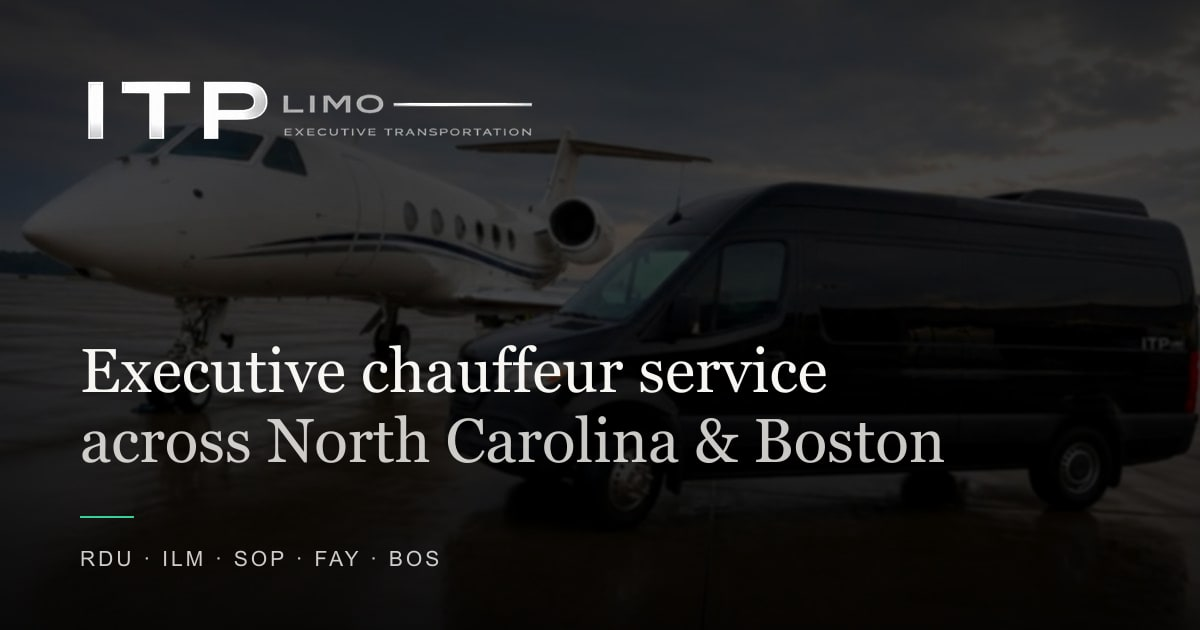
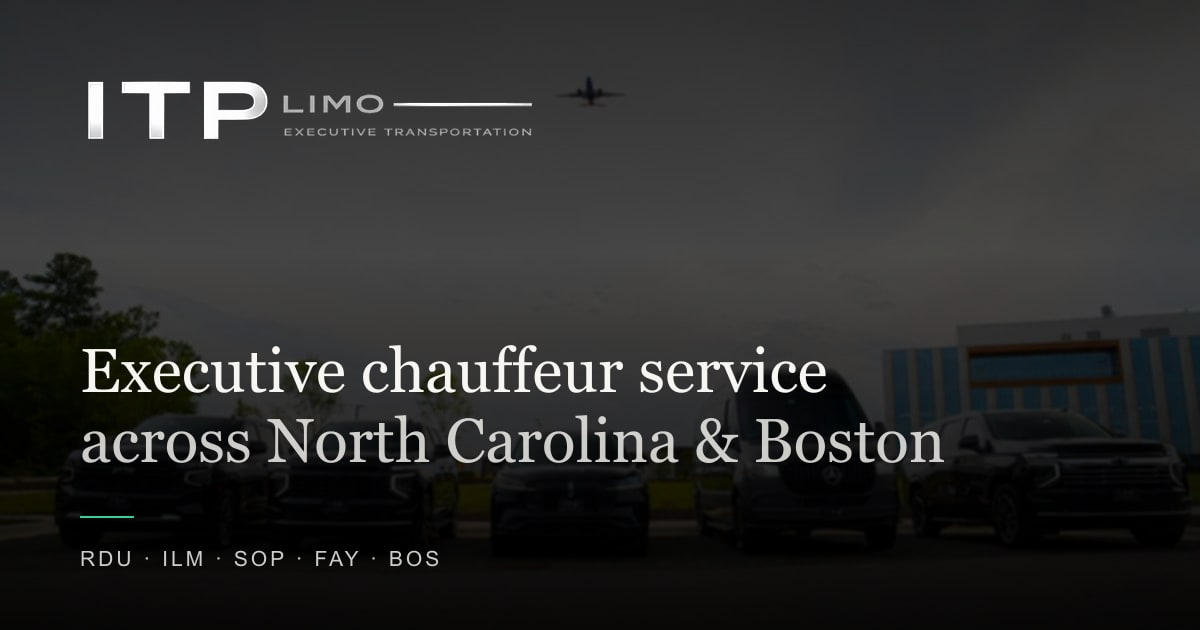
feat: use the client's professional photography across the site
The September shoot arrived as 26 files with Facebook-style names. Every
one was reviewed on a contact sheet before use, and the vehicle identities
were confirmed at full size rather than guessed - the Chevrolet bowtie,
the Lincoln grille and the Mercedes star are all legible in the frames
assigned to those three fleet pages.

17 imported under semantic names and re-encoded at a 1600px cap with
mozjpeg: 2.7MB down to 2.0MB, 26% lighter, which matters because several
of these load above the fold.

The real gain is spread. Three images were carrying the entire site -
signature_sprinter.jpg alone appeared 21 times, gulfstream 12,
cockpit_tarmac 10 - so every service, market and route drew on the same
few frames. Each service now has its own image matched to what it sells,
and each market leads with a different vehicle.

Two originals are deliberately kept: gulfstream_sprinter.jpg and
signature_sprinter.jpg are the only images evidencing the private aviation
side, so they stay on /private-aviation and the FBO band. cockpit_tarmac
is retired from general use - despite the name it is a Sprinter
instrument cluster, and the new interior frames are better.

The share card now leads with the fleet lineup rather than the Gulfstream.
That aircraft is not theirs; these five vehicles are.

Verified: 20 distinct image sources across all 27 routes, zero broken.

diff --git a/src/content/locations.ts b/src/content/locations.ts
@@ -134,7 +134,7 @@ export const locations: Location[] = [
     metaTitle: 'Raleigh Limo Service | RDU Airport Transfers | ITP Limo',
     metaDescription:
       'Chauffeur and black car service across Raleigh, Durham, Chapel Hill and Cary. RDU airport transfers with flight tracking, corporate travel, weddings and events.',
-    image: '/images/signature_sprinter.jpg',
+    image: '/images/fleet-lineup.jpg',
     hero: {
       title: 'Raleigh car service, on your schedule.',
       intro:
@@ -163,7 +163,7 @@ export const locations: Location[] = [
       {
         title: 'RDU Airport Transfers',
         desc: 'Your flight is tracked from the moment it leaves. An early landing or a three-hour delay changes nothing about who is waiting when you reach the curb.',
-        image: '/images/signature_sprinter.jpg',
+        image: '/images/mercedes-sprinter.jpg',
       },
       {
         title: 'Private Aviation & FBO Transfers',
@@ -173,7 +173,7 @@ export const locations: Location[] = [
       {
         title: 'Corporate & Executive Travel',
         desc: 'Standing accounts for Research Triangle Park campuses and downtown firms. One point of contact, consolidated billing, and chauffeurs who have driven the route before.',
-        image: '/images/cockpit_tarmac.jpg',
+        image: '/images/suburban-cockpit.jpg',
       },
       {
         title: 'Weddings',
@@ -188,7 +188,7 @@ export const locations: Location[] = [
       {
         title: 'University Transportation',
         desc: 'Move-in weekends, graduation, parents’ weekend and campus interviews across Duke, UNC-Chapel Hill and NC State.',
-        image: '/images/signature_sprinter.jpg',
+        image: '/images/mercedes-sprinter.jpg',
       },
       {
         title: 'Hourly Chauffeur Service',
@@ -198,7 +198,7 @@ export const locations: Location[] = [
       {
         title: 'Group & Sprinter Transportation',
         desc: 'Up to fourteen passengers in one vehicle, which means one arrival time instead of four and one conversation instead of a convoy.',
-        image: '/images/signature_sprinter.jpg',
+        image: '/images/mercedes-sprinter.jpg',
       },
       {
         title: 'Long-Distance Transportation',
@@ -223,7 +223,7 @@ export const locations: Location[] = [
         name: '2026 Mercedes Sprinter',
         passengers: 14,
         luggage: 20,
-        image: '/images/signature_sprinter.jpg',
+        image: '/images/mercedes-sprinter.jpg',
       },
     ],
     whyChoose: [
@@ -267,7 +267,7 @@ export const locations: Location[] = [
     metaTitle: 'Pinehurst Limo Service | Golf & Resort Transfers | ITP Limo',
     metaDescription:
       'Chauffeur service for Pinehurst, Southern Pines and Aberdeen. Golf group transfers, resort arrivals and airport pickups from RDU, Moore County and Fayetteville.',
-    image: '/images/lincoln-aviator.jpg',
+    image: '/images/aviator-front.jpg',
     hero: {
       title: 'Pinehurst, from the airport to the first tee.',
       intro:
@@ -297,7 +297,7 @@ export const locations: Location[] = [
       {
         title: 'Airport-to-Resort Transfers',
         desc: 'From RDU, Moore County or Fayetteville Regional straight to the resort door. Flights are tracked, so a delay upstream does not cost you the afternoon round.',
-        image: '/images/signature_sprinter.jpg',
+        image: '/images/mercedes-sprinter.jpg',
       },
       {
         title: 'Corporate Outings & Tournament Transfers',
@@ -312,12 +312,12 @@ export const locations: Location[] = [
       {
         title: 'Private Aviation & Executive Transfers',
         desc: 'Moore County sees a great deal of private traffic. We meet it at the FBO with the vehicle already staged, and cover executive travel across the Sandhills the rest of the week.',
-        image: '/images/cockpit_tarmac.jpg',
+        image: '/images/suburban-cockpit.jpg',
       },
       {
         title: 'Group & Sprinter Transportation',
         desc: 'Fourteen passengers and twenty bags in a single vehicle — a full golf party or wedding group reaching the same place at the same time.',
-        image: '/images/signature_sprinter.jpg',
+        image: '/images/mercedes-sprinter.jpg',
       },
     ],
     vehicles: [
@@ -337,7 +337,7 @@ export const locations: Location[] = [
         name: '2026 Mercedes Sprinter',
         passengers: 14,
         luggage: 20,
-        image: '/images/signature_sprinter.jpg',
+        image: '/images/mercedes-sprinter.jpg',
       },
     ],
     whyChoose: [
@@ -375,7 +375,7 @@ export const locations: Location[] = [
     metaTitle: 'Wilmington Limo Service | ILM Airport & Beaches | ITP Limo',
     metaDescription:
       'Chauffeur service across Wilmington, Wrightsville Beach and Carolina Beach. ILM airport transfers, weddings, corporate travel and Raleigh-to-coast journeys.',
-    image: '/images/gulfstream_sprinter.jpg',
+    image: '/images/sprinter-branded.jpg',
     hero: {
       title: 'Wilmington, from the runway to the shoreline.',
       intro:
@@ -401,7 +401,7 @@ export const locations: Location[] = [
       {
         title: 'ILM Airport Transfers',
         desc: 'Wilmington International clears quickly, so the vehicle is staged before you reach the doors. Flights tracked in both directions.',
-        image: '/images/signature_sprinter.jpg',
+        image: '/images/mercedes-sprinter.jpg',
       },
       {
         title: 'Raleigh & Long-Distance Transfers',
@@ -416,7 +416,7 @@ export const locations: Location[] = [
       {
         title: 'Corporate & Executive Transportation',
         desc: 'Downtown offices and coastal business travel, with standing accounts, consolidated billing and a chauffeur who knows the route.',
-        image: '/images/cockpit_tarmac.jpg',
+        image: '/images/suburban-cockpit.jpg',
       },
       {
         title: 'Beach & Vacation Transportation',
@@ -426,12 +426,12 @@ export const locations: Location[] = [
       {
         title: 'Private Aviation & FBO Transfers',
         desc: 'Private arrivals met on the FBO side rather than at the terminal, with the vehicle in place before you are off the aircraft.',
-        image: '/images/cockpit_tarmac.jpg',
+        image: '/images/suburban-cockpit.jpg',
       },
       {
         title: 'Group & Sprinter Transportation',
         desc: 'Fourteen passengers and twenty bags — a wedding party or a full family reaching the same house at the same time.',
-        image: '/images/signature_sprinter.jpg',
+        image: '/images/mercedes-sprinter.jpg',
       },
     ],
     vehicles: [
@@ -451,7 +451,7 @@ export const locations: Location[] = [
         name: '2026 Mercedes Sprinter',
         passengers: 14,
         luggage: 20,
-        image: '/images/signature_sprinter.jpg',
+        image: '/images/mercedes-sprinter.jpg',
       },
     ],
     whyChoose: [
@@ -502,7 +502,7 @@ export const locations: Location[] = [
     metaTitle: 'Boston Limo Service | Logan Airport Transfers | ITP Limo',
     metaDescription:
       'Professional, on-time limo and black car service across Boston. Logan Airport transfers with flight tracking, corporate travel, weddings and special events.',
-    image: '/images/gulfstream_sprinter.jpg',
+    image: '/images/suburban-front.jpg',
     hero: {
       title: 'Boston car service, Logan and everything after it.',
       intro:
@@ -527,12 +527,12 @@ export const locations: Location[] = [
       {
         title: 'Logan Airport Transfers',
         desc: 'Your flight is tracked from wheels-up, so an early landing or a two-hour hold changes nothing about who is waiting. Met inside at baggage claim, not circling the terminal.',
-        image: '/images/signature_sprinter.jpg',
+        image: '/images/mercedes-sprinter.jpg',
       },
       {
         title: 'Corporate & Financial District Travel',
         desc: 'Standing accounts for downtown firms and Seaport offices, with consolidated billing and chauffeurs who already know the building.',
-        image: '/images/cockpit_tarmac.jpg',
+        image: '/images/suburban-cockpit.jpg',
       },
       {
         title: 'Roadshows to New York & Washington',
@@ -552,7 +552,7 @@ export const locations: Location[] = [
       {
         title: 'Convention & Event Transport',
         desc: 'The Boston Convention & Exhibition Center, the universities and the venues between them, moved in Sprinter-sized groups rather than a queue of separate cars.',
-        image: '/images/signature_sprinter.jpg',
+        image: '/images/mercedes-sprinter.jpg',
       },
     ],
     vehicles: [
@@ -572,7 +572,7 @@ export const locations: Location[] = [
         name: '2026 Mercedes Sprinter',
         passengers: 14,
         luggage: 20,
-        image: '/images/signature_sprinter.jpg',
+        image: '/images/mercedes-sprinter.jpg',
       },
     ],
     whyChoose: [

diff --git a/src/content/services.ts b/src/content/services.ts
@@ -34,7 +34,7 @@ export const services: Service[] = [
     tagline: 'Live delay radar & 60-min airport wait time',
     description:
       'Delayed flight? Chauffeurs track arrivals automatically in real time and adjust pickup schedules so you are never stranded.',
-    image: '/images/signature_sprinter.jpg',
+    image: '/images/chauffeur-sprinter.jpg',
     amenities: [
       'Live Flight Delay Radar Synchronization',
       'Baggage Claim Meet & Greet with Name Sign',
@@ -69,7 +69,7 @@ export const services: Service[] = [
     tagline: 'Dedicated vehicle on standby',
     description:
       'Reserve a dedicated chauffeur from 2 to 24 hours. Your vehicle remains on standby outside every venue for as long as you need.',
-    image: '/images/cockpit_tarmac.jpg',
+    image: '/images/suburban-cockpit.jpg',
     amenities: [
       'Unlimited Stops & Instant Itinerary Adjustments',
       'Chauffeur On Standby Outside Every Venue',
@@ -104,7 +104,7 @@ export const services: Service[] = [
     tagline: 'Private door-to-door regional travel',
     description:
       'Turn long-distance journeys into calm, productive time. Direct private travel between Raleigh, Charlotte, Richmond, and Washington D.C.',
-    image: '/images/gulfstream_sprinter.jpg',
+    image: '/images/suburban-front.jpg',
     amenities: [
       'Direct Door-to-Door Regional Highway Travel',
       'High-Speed Onboard 5G Wi-Fi & Device Charging',
@@ -139,7 +139,7 @@ export const services: Service[] = [
     tagline: 'Dedicated concierge & roadshows',
     description:
       'One dedicated concierge platform for companies and executive assistants to book, track, and account for every journey.',
-    image: '/images/signature_sprinter.jpg',
+    image: '/images/chauffeur-team.jpg',
     amenities: [
       'Centralized Monthly Billing & Expense Invoicing',
       'Multi-Stop Financial Roadshow Coordination',
@@ -189,7 +189,7 @@ export const services: Service[] = [
     metaTitle: 'Wedding Transportation Services | Guest Shuttles | ITP Limo',
     metaDescription:
       'Wedding transportation services for the couple, wedding party and guests. Guest shuttles, a car held all day, and one timeline across Raleigh and coastal NC.',
-    image: '/images/lincoln-aviator.jpg',
+    image: '/images/chauffeur-door.jpg',
     amenities: [
       'Guest shuttles between hotel, ceremony and reception',
       'Dedicated car for the couple, held all day',
@@ -239,7 +239,7 @@ export const services: Service[] = [
     metaTitle: 'Group & Prom Transportation | 14-Seat Sprinter | ITP Limo',
     metaDescription:
       'Prom, group and party transportation across Raleigh in a 14-seat Mercedes Sprinter and Suburbans — the chauffeured alternative to a party bus rental.',
-    image: '/images/signature_sprinter.jpg',
+    image: '/images/sprinter-seats.jpg',
     amenities: [
       '14 passengers and 20 bags in a single Sprinter',
       'Multiple vehicles coordinated for larger groups',
@@ -287,7 +287,7 @@ export const services: Service[] = [
     metaTitle: 'Wedding Guest Shuttle Service | Hotel to Venue | ITP Limo',
     metaDescription:
       'Wedding guest shuttle service between hotel, ceremony and reception. Continuous loops, a 14-seat Sprinter, and one schedule the couple never has to think about.',
-    image: '/images/signature_sprinter.jpg',
+    image: '/images/sprinter-interior.jpg',
     amenities: [
       'Continuous loops rather than a single pickup',
       'Fourteen guests per run in the Sprinter',

diff --git a/src/app/services/page.tsx b/src/app/services/page.tsx
@@ -24,7 +24,7 @@ export default function ServicesPage() {
         title="Every journey, covered."
         subtitle="Airport transfers, hourly hire, city-to-city executive travel and managed corporate accounts — each with the same chauffeur standard."
         crumbs={[{ label: 'Home', href: '/' }, { label: 'Services' }]}
-        image="/images/signature_sprinter.jpg"
+        image="/images/fleet-lineup.jpg"
         ctaLabel="Discuss Your Journey"
       />
 
@@ -98,7 +98,7 @@ export default function ServicesPage() {
       <section className="border-t border-black/5 bg-[#FAF8F5] py-24 sm:py-32 dark:border-white/5 dark:bg-[#070707]">
         <div className="mx-auto max-w-7xl px-6 sm:px-8 lg:px-12">
           <EditorialBanner
-            image="/images/cockpit_tarmac.jpg"
+            image="/images/chauffeur-door.jpg"
             alt="Executive cabin interior"
             eyebrow="Across Every Service"
             title="The same standard, whichever you book."

diff --git a/src/components/ExperienceSection.tsx b/src/components/ExperienceSection.tsx
@@ -63,7 +63,7 @@ export const ExperienceSection: React.FC = () => {
           className="relative h-[420px] sm:h-[500px] lg:h-[560px] rounded-[36px] overflow-hidden mb-20 shadow-2xl border border-black/10 dark:border-white/10"
         >
           <img
-            src="/images/cockpit_tarmac.jpg"
+            src="/images/sprinter-interior.jpg"
             alt="ITP Cockpit View Private Jet Tarmac"
             className="w-full h-full object-cover filter brightness-[0.8] dark:brightness-[0.7] contrast-[1.05]"
           />

diff --git a/src/components/ServicesSection.tsx b/src/components/ServicesSection.tsx
@@ -35,7 +35,7 @@ export const ServicesSection: React.FC = () => {
       tagline: 'Dedicated vehicle on standby',
       description:
         'Reserve a dedicated chauffeur from 2 to 24 hours. Your vehicle remains on standby outside every venue for as long as you need.',
-      image: '/images/cockpit_tarmac.jpg',
+      image: '/images/suburban-cockpit.jpg',
       amenities: [
         'Unlimited Stops & Instant Itinerary Adjustments',
         'Chauffeur On Standby Outside Every Venue',

diff --git a/src/app/about/page.tsx b/src/app/about/page.tsx
@@ -51,7 +51,7 @@ export default function AboutPage() {
         title="Quietly, precisely, every time."
         subtitle="ITP Limo is a private chauffeur and executive transportation company serving Raleigh-Durham and Boston, built for travellers whose time and privacy are the point."
         crumbs={[{ label: 'Home', href: '/' }, { label: 'About' }]}
-        image="/images/cockpit_tarmac.jpg"
+        image="/images/chauffeur-team.jpg"
         ctaLabel="Speak to Dispatch"
       />
 

diff --git a/src/content/routes.ts b/src/content/routes.ts
@@ -93,7 +93,7 @@ export const routes: Route[] = [
     metaTitle: 'Raleigh to Wilmington Car Service | RDU Transfer | ITP Limo',
     metaDescription:
       'Private car service from Raleigh and RDU to Wilmington and the coast — about 2 hours door to door, for beach houses, weddings and corporate travel.',
-    image: '/images/gulfstream_sprinter.jpg',
+    image: '/images/chevrolet-suburban.jpg',
     hero: {
       title: 'Raleigh to Wilmington, in one car.',
       intro:

diff --git a/src/app/fleet/page.tsx b/src/app/fleet/page.tsx
@@ -24,7 +24,7 @@ export default function FleetPage() {
         title="Every vehicle is a 2026."
         subtitle="A Chevrolet Suburban, a Lincoln Aviator and a Mercedes Sprinter — seating three, seven or fourteen, each driven by a professional licensed chauffeur."
         crumbs={[{ label: 'Home', href: '/' }, { label: 'Fleet' }]}
-        image="/images/signature_sprinter.jpg"
+        image="/images/fleet-lineup.jpg"
         ctaLabel="Reserve a Vehicle"
       />
 

diff --git a/src/app/flight-tracking/page.tsx b/src/app/flight-tracking/page.tsx
@@ -44,7 +44,7 @@ export default function FlightTrackingPage() {
         title="Your flight moves. So do we."
         subtitle="Real-time FAA radar tracking on every airport pickup, so a delayed or early landing never becomes your problem."
         crumbs={[{ label: 'Home', href: '/' }, { label: 'Flight Tracking' }]}
-        image="/images/cockpit_tarmac.jpg"
+        image="/images/suburban-cockpit.jpg"
         ctaLabel="Arrange an Airport Pickup"
       />
 

diff --git a/src/content/fleet.ts b/src/content/fleet.ts
@@ -111,7 +111,7 @@ export const fleet: Vehicle[] = [
     tagline: 'Fourteen passengers, twenty bags',
     passengers: '14 Passengers',
     luggage: '20 Bags',
-    image: '/images/signature_sprinter.jpg',
+    image: '/images/mercedes-sprinter.jpg',
     description:
       'A 2026 Mercedes-Benz Sprinter in black with full stand-up headroom, seating fourteen — used for group transfers, corporate movements and private aviation pickups.',
     specs: [
